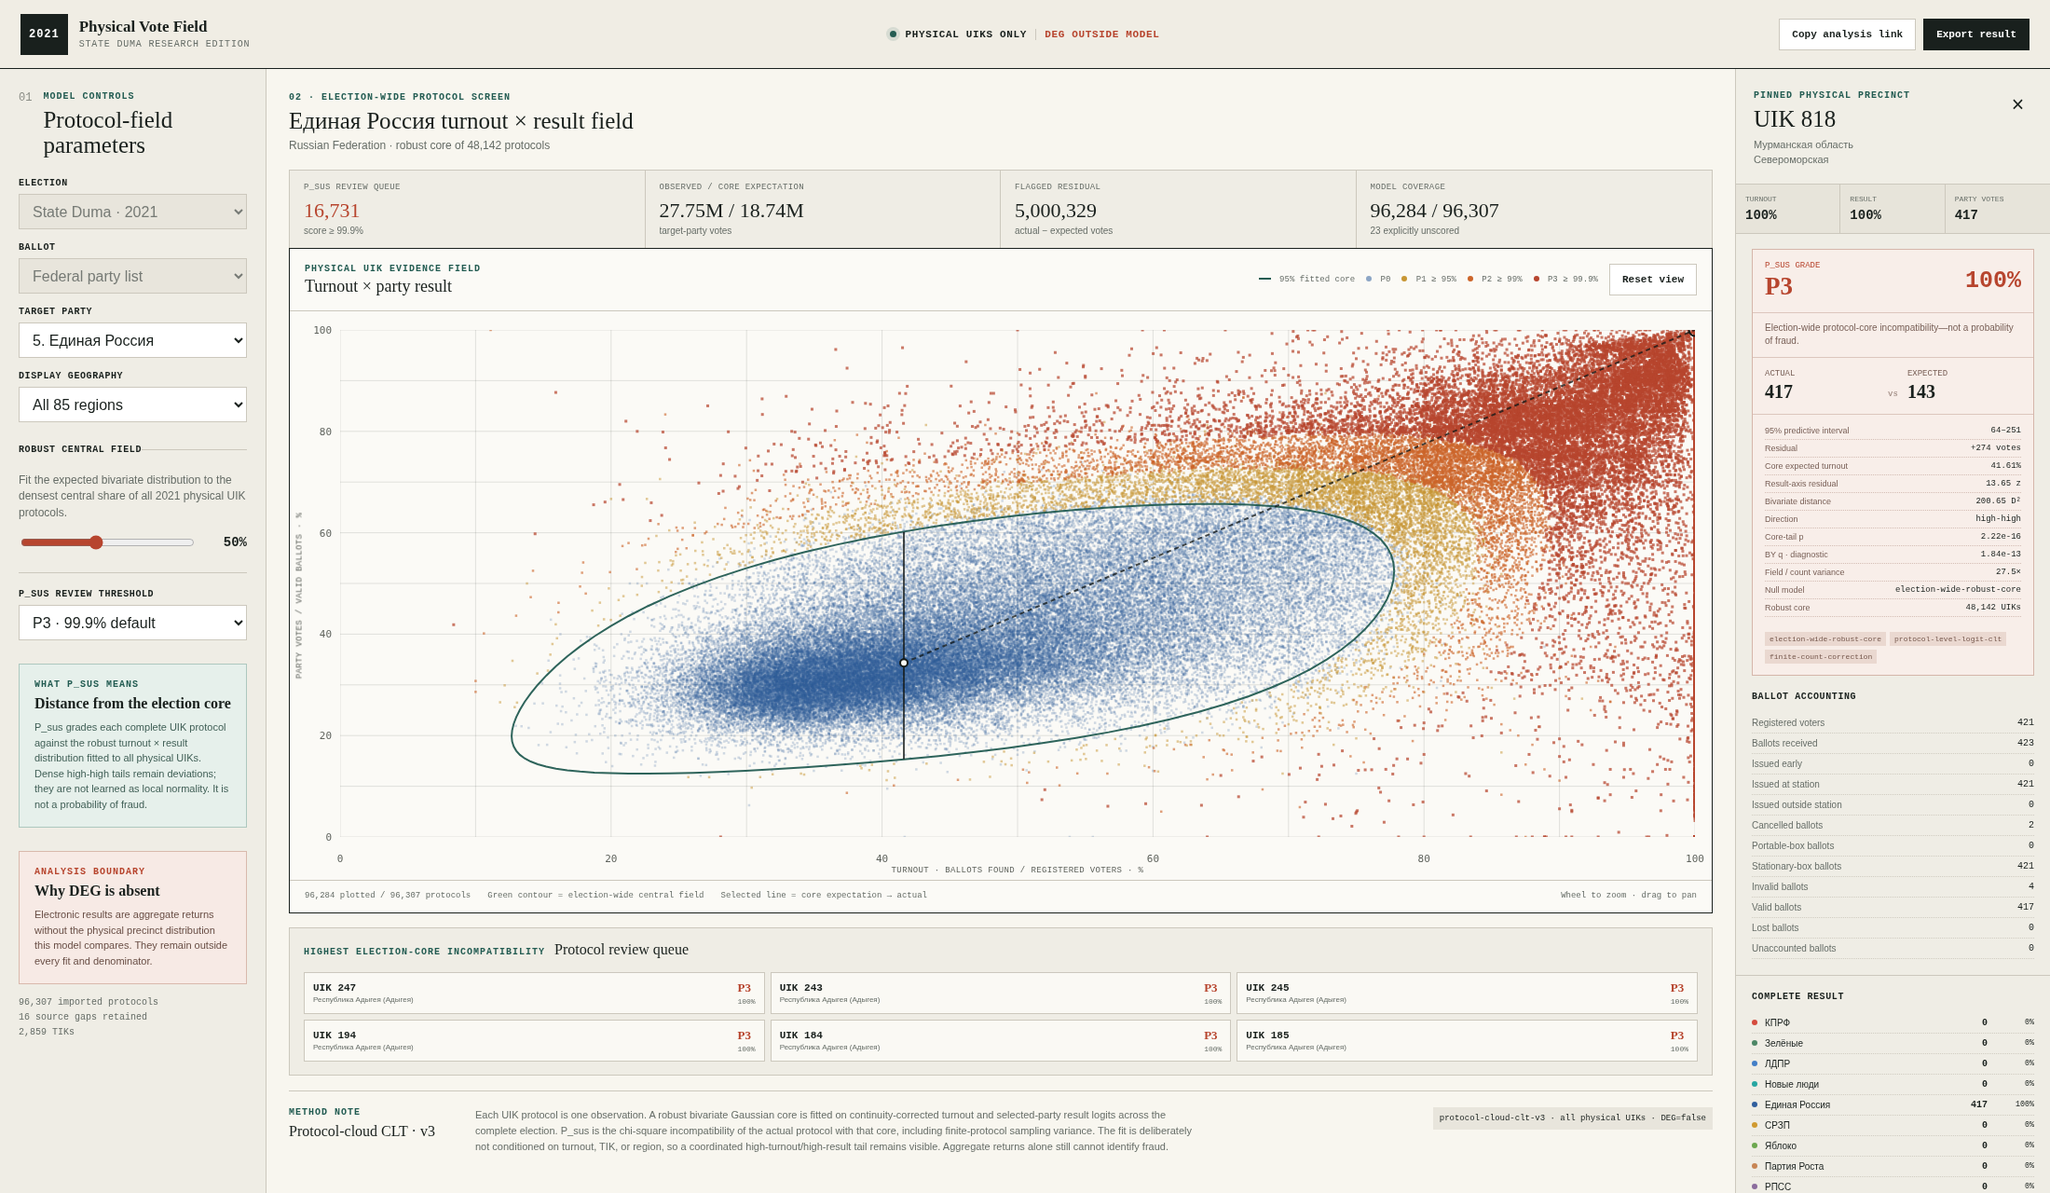
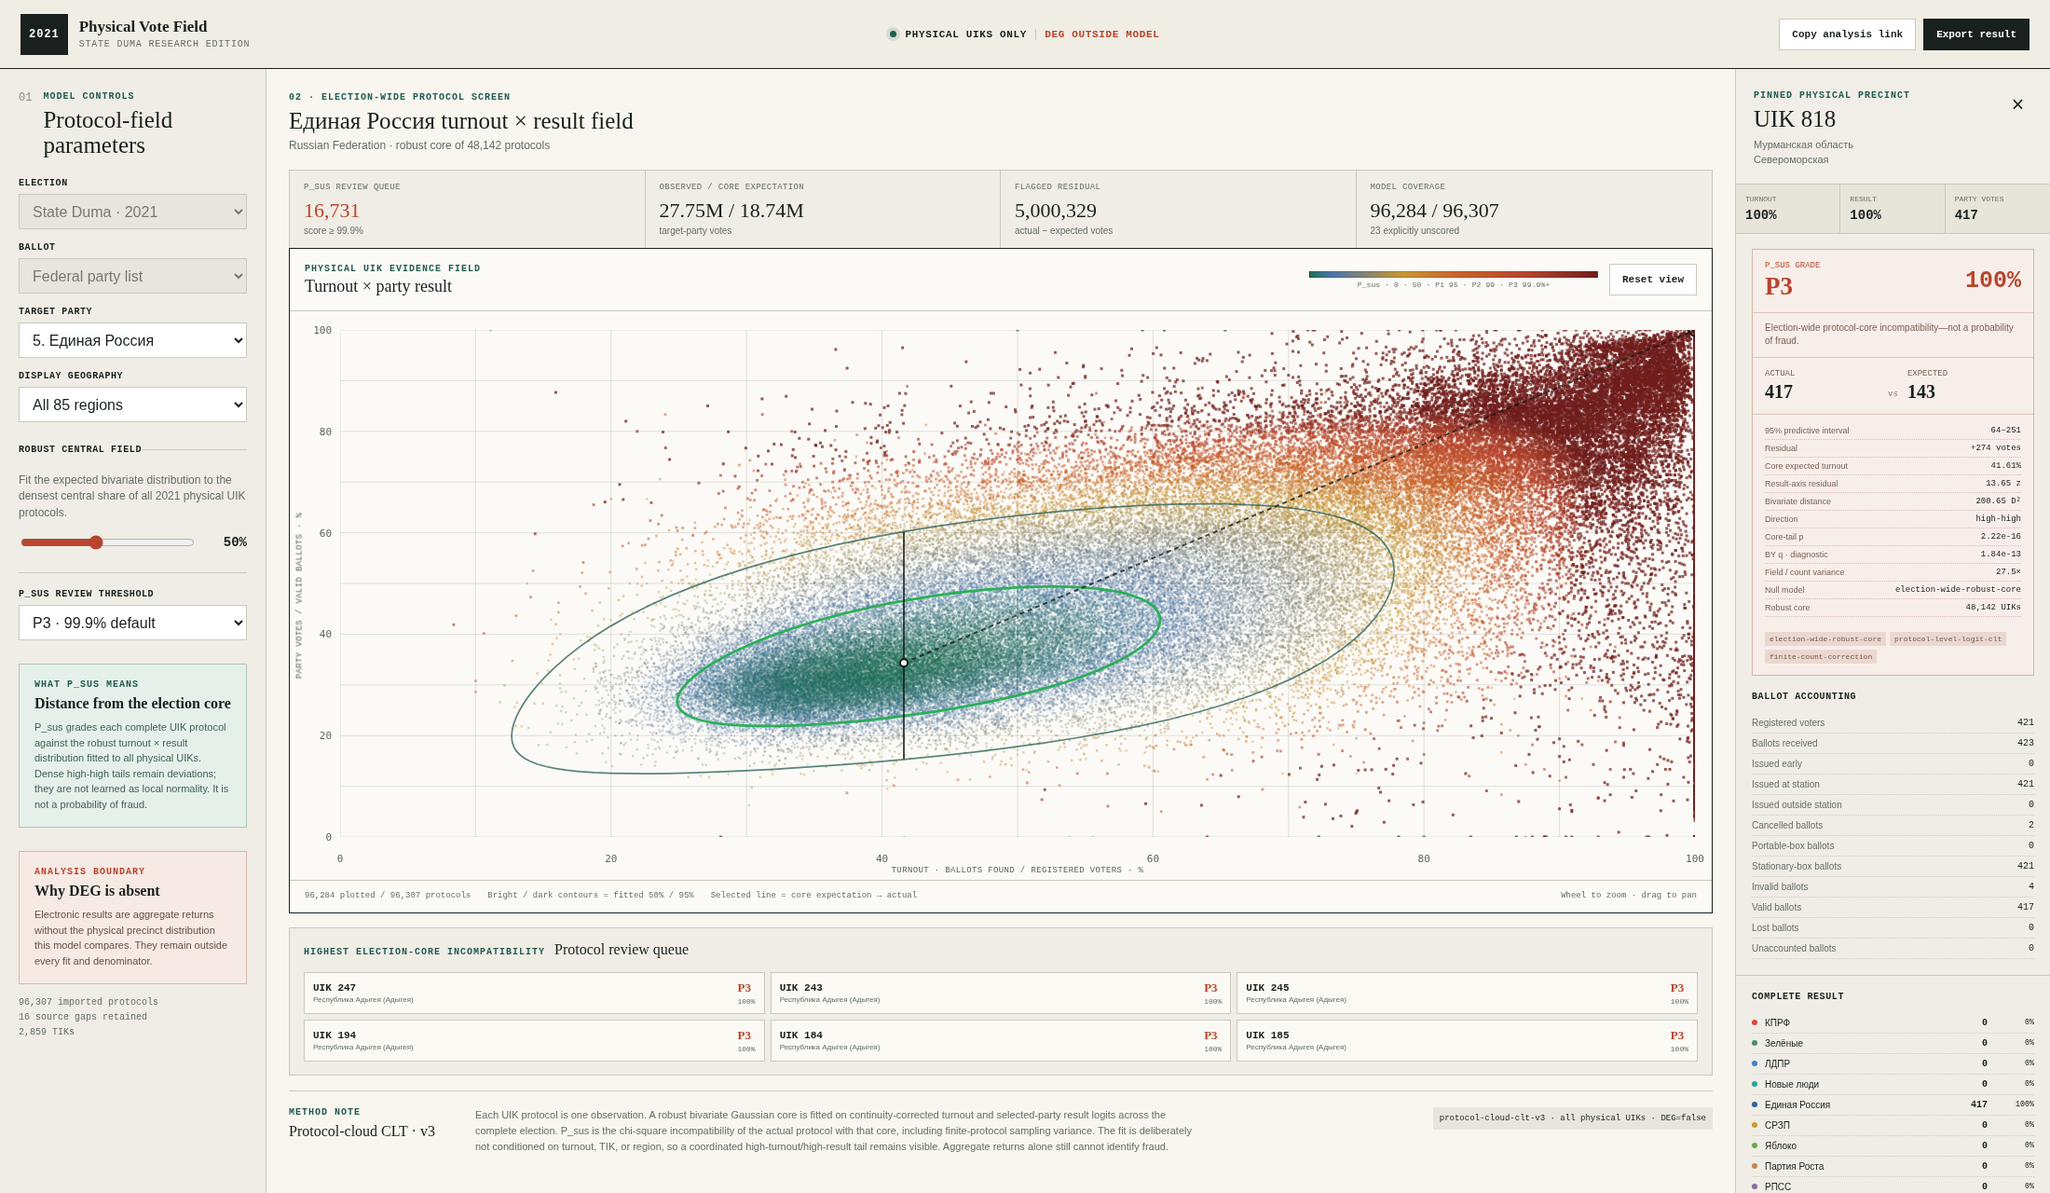
Improve protocol-cloud P_sus visualization

diff --git a/proper-app/frontend/src/components/Scatterplot.tsx b/proper-app/frontend/src/components/Scatterplot.tsx
@@ -5,9 +5,18 @@ interface View { x0: number; x1: number; y0: number; y1: number }
 interface Size { width: number; height: number }
 interface Drag { x: number; y: number; view: View; moved: boolean }
 type PlotPoint = Point & { turnout: number; result: number };
+interface ColorStop { position: number; color: [number, number, number] }
 
 const FULL: View = { x0: 0, x1: 100, y0: 0, y1: 100 };
 const MARGIN = { left: 54, right: 18, top: 20, bottom: 46 };
+const COLOR_STOPS: ColorStop[] = [
+  { position: 0, color: [35, 112, 91] },
+  { position: 0.075, color: [75, 118, 169] },
+  { position: 0.325, color: [199, 150, 51] },
+  { position: 0.5, color: [204, 101, 42] },
+  { position: 0.75, color: [183, 69, 46] },
+  { position: 1, color: [112, 31, 29] }
+];
 
 function bounded(view: View): View {
   const width = Math.min(100, Math.max(2, view.x1 - view.x0));
@@ -18,23 +27,42 @@ function bounded(view: View): View {
   return { x0, x1: x0 + width, y0, y1: y0 + height };
 }
 
-function rgba(hex: string, alpha: number): string {
-  const value = Number.parseInt(hex.replace("#", ""), 16);
-  return `rgba(${(value >> 16) & 255},${(value >> 8) & 255},${value & 255},${alpha})`;
-}
-
 function isPlottable(point: Point): point is PlotPoint {
   return point.turnout !== null && point.result !== null
     && Number.isFinite(point.turnout) && Number.isFinite(point.result);
 }
 
+function pSusOf(estimate: PointEstimate | undefined): number {
+  return estimate?.status === "scored" && estimate.pSus !== null ? estimate.pSus : -1;
+}
+
+function tailPosition(pSus: number): number {
+  if (pSus < 0) return -1;
+  // A log-tail axis gives useful visual room to 95%, 99%, and the P3 tail.
+  return Math.min(1, -Math.log10(Math.max(1e-4, 1 - Math.min(1, pSus))) / 4);
+}
+
+function gradientColor(pSus: number): string {
+  const position = tailPosition(pSus);
+  if (position < 0) return "rgba(95,99,93,.22)";
+  const upperIndex = COLOR_STOPS.findIndex((stop) => stop.position >= position);
+  const upper = COLOR_STOPS[Math.max(0, upperIndex)];
+  const lower = COLOR_STOPS[Math.max(0, upperIndex - 1)];
+  const fraction = upper.position === lower.position
+    ? 0 : (position - lower.position) / (upper.position - lower.position);
+  const channels = lower.color.map((channel, index) =>
+    Math.round(channel + fraction * (upper.color[index] - channel)));
+  const alpha = 0.22 + 0.5 * position;
+  return `rgba(${channels[0]},${channels[1]},${channels[2]},${alpha.toFixed(3)})`;
+}
+
 export function Scatterplot({
-  points, estimates, coreContour, color, selectedId, onSelect
+  points, estimates, coreContour50, coreContour95, selectedId, onSelect
 }: {
   points: Point[];
   estimates: Map<string, PointEstimate>;
-  coreContour: Array<{ turnout: number; result: number }>;
-  color: string;
+  coreContour50: Array<{ turnout: number; result: number }>;
+  coreContour95: Array<{ turnout: number; result: number }>;
   selectedId: string | null;
   onSelect(point: Point): void;
 }) {
@@ -46,6 +74,8 @@ export function Scatterplot({
   const [size, setSize] = useState<Size>({ width: 900, height: 560 });
   const [hover, setHover] = useState<{ point: PlotPoint; x: number; y: number } | null>(null);
   const plottedPoints = useMemo(() => points.filter(isPlottable), [points]);
+  const paintOrder = useMemo(() => [...plottedPoints].sort((left, right) =>
+    pSusOf(estimates.get(left.id)) - pSusOf(estimates.get(right.id))), [estimates, plottedPoints]);
 
   const applyView = useCallback((next: View) => {
     const value = bounded(next); viewRef.current = value; setView(value);
@@ -124,27 +154,26 @@ export function Scatterplot({
       if (tick >= current.x0 && tick <= current.x1) { context.beginPath(); context.moveTo(x(tick), MARGIN.top); context.lineTo(x(tick), MARGIN.top + d.height); context.stroke(); }
       if (tick >= current.y0 && tick <= current.y1) { context.beginPath(); context.moveTo(MARGIN.left, y(tick)); context.lineTo(MARGIN.left + d.width, y(tick)); context.stroke(); }
     }
-    const gradeColors: Record<PointEstimate["grade"], string> = {
-      U: "rgba(95,99,93,.22)", P0: rgba(color, 0.22), P1: "rgba(199,150,51,.50)",
-      P2: "rgba(204,101,42,.61)", P3: "rgba(183,69,46,.72)"
-    };
-    // Paint the ordinary cloud first so dense P2/P3 tails cannot be hidden by it.
-    for (const grade of ["U", "P0", "P1", "P2", "P3"] as const) {
-      for (const point of plottedPoints) {
-        if (point.turnout < current.x0 || point.turnout > current.x1 || point.result < current.y0 || point.result > current.y1) continue;
-        if ((estimates.get(point.id)?.grade ?? "U") !== grade) continue;
-        const pixel = toPixel(point, current); const width = grade === "P3" ? 3 : 2.5;
-        context.fillStyle = gradeColors[grade];
-        context.fillRect(pixel.x - width / 2, pixel.y - width / 2, width, width);
+    // Sort once by continuous severity so extreme points are painted on top.
+    for (const point of paintOrder) {
+      if (point.turnout < current.x0 || point.turnout > current.x1 || point.result < current.y0 || point.result > current.y1) continue;
+      const pSus = pSusOf(estimates.get(point.id)); const position = tailPosition(pSus);
+      const pixel = toPixel(point, current); const width = position < 0 ? 2.25 : 2.25 + 0.75 * position;
+      context.fillStyle = gradientColor(pSus);
+      context.fillRect(pixel.x - width / 2, pixel.y - width / 2, width, width);
+    }
+    for (const { points: corePoints, color: contourColor, width } of [
+      { points: coreContour95, color: "rgba(35,92,82,.74)", width: 1.75 },
+      { points: coreContour50, color: "rgba(38,174,82,.96)", width: 2.75 }
+    ]) {
+      context.strokeStyle = contourColor; context.lineWidth = width;
+      context.beginPath();
+      for (const [index, corePoint] of corePoints.entries()) {
+        if (index === 0) context.moveTo(x(corePoint.turnout), y(corePoint.result));
+        else context.lineTo(x(corePoint.turnout), y(corePoint.result));
       }
+      context.stroke();
     }
-    context.strokeStyle = "rgba(35,92,82,.95)"; context.lineWidth = 2;
-    context.beginPath();
-    for (const [index, corePoint] of coreContour.entries()) {
-      if (index === 0) context.moveTo(x(corePoint.turnout), y(corePoint.result));
-      else context.lineTo(x(corePoint.turnout), y(corePoint.result));
-    }
-    context.stroke();
     const selected = selectedId ? plottedPoints.find((point) => point.id === selectedId) : null;
     if (selected) {
       const pixel = toPixel(selected, current); const estimate = estimates.get(selected.id);
@@ -178,7 +207,7 @@ export function Scatterplot({
       const value = current.y0 + index / 5 * (current.y1 - current.y0);
       context.fillText(value.toFixed(current.y1 - current.y0 < 20 ? 1 : 0), MARGIN.left - 9, MARGIN.top + d.height - index / 5 * d.height + 4);
     }
-  }, [color, coreContour, dimensions, estimates, plottedPoints, selectedId, size, toPixel, view]);
+  }, [coreContour50, coreContour95, dimensions, estimates, paintOrder, plottedPoints, selectedId, size, toPixel, view]);
 
   useEffect(() => {
     const shell = shellRef.current; if (!shell) return;
@@ -223,7 +252,7 @@ export function Scatterplot({
   return <section className="plot-card">
     <div className="plot-head">
       <div><span className="eyebrow">Physical UIK evidence field</span><h2>Turnout × party result</h2></div>
-      <div className="plot-tools"><span><i className="legend-line core" /> 95% fitted core</span><span><i className="legend-dot ordinary" style={{ background: color }} /> P0</span><span><i className="legend-dot p1" /> P1 ≥ 95%</span><span><i className="legend-dot p2" /> P2 ≥ 99%</span><span><i className="legend-dot p3" /> P3 ≥ 99.9%</span><button onClick={() => applyView(FULL)}>Reset view</button></div>
+      <div className="plot-tools"><span className="gradient-key"><i /><small>P_sus · 0 · 50 · P1 95 · P2 99 · P3 99.9%+</small></span><button onClick={() => applyView(FULL)}>Reset view</button></div>
     </div>
     <div className="plot-shell" ref={shellRef} onPointerDown={onPointerDown} onPointerMove={onPointerMove} onPointerUp={onPointerUp} onPointerCancel={() => { dragRef.current = null; }} onPointerLeave={() => setHover(null)}>
       <canvas ref={canvasRef} aria-label={`${plottedPoints.length.toLocaleString()} physical precinct points. Turnout on the horizontal axis and party result on the vertical axis.`} role="img" />
@@ -236,6 +265,6 @@ export function Scatterplot({
         <small>Click to inspect protocol</small>
       </div>}
     </div>
-    <footer className="plot-foot"><span>{plottedPoints.length.toLocaleString()} plotted / {points.length.toLocaleString()} protocols</span><span>Green contour = election-wide central field</span><span>Selected line = core expectation → actual</span><span>Wheel to zoom · drag to pan</span></footer>
+    <footer className="plot-foot"><span>{plottedPoints.length.toLocaleString()} plotted / {points.length.toLocaleString()} protocols</span><span>Bright / dark contours = fitted 50% / 95%</span><span>Selected line = core expectation → actual</span><span>Wheel to zoom · drag to pan</span></footer>
   </section>;
 }

diff --git a/proper-app/frontend/src/App.tsx b/proper-app/frontend/src/App.tsx
@@ -178,7 +178,7 @@ export default function App() {
           <article><span>Flagged residual</span><strong>{integer.format(summary.flaggedResidualVotes)}</strong><small>actual − expected votes</small></article>
           <article><span>Model coverage</span><strong>{integer.format(summary.scoredProtocols)} / {integer.format(summary.protocols)}</strong><small>{summary.unscoredProtocols} explicitly unscored</small></article>
         </div>}
-        {visiblePoints.length && party && analysis.value ? <Scatterplot points={visiblePoints} estimates={analysis.value.estimates} coreContour={analysis.value.core.contour95} color={party.color} selectedId={selectedId} onSelect={(point) => setSelectedId(point.id)} /> : !loading && <div className="empty-chart">No physical UIK points match this selection.</div>}
+        {visiblePoints.length && party && analysis.value ? <Scatterplot points={visiblePoints} estimates={analysis.value.estimates} coreContour50={analysis.value.core.contour50} coreContour95={analysis.value.core.contour95} selectedId={selectedId} onSelect={(point) => setSelectedId(point.id)} /> : !loading && <div className="empty-chart">No physical UIK points match this selection.</div>}
         {reviewQueue.length > 0 && <section className="review-queue"><div><span className="eyebrow">Highest election-core incompatibility</span><h2>Protocol review queue</h2></div><div className="review-items">{reviewQueue.map(({ point, estimate }) => <button key={point.id} onClick={() => setSelectedId(point.id)} className={selectedId === point.id ? "selected" : ""}><span><b>UIK {point.uikNumber}</b><small>{point.regionName}</small></span><strong>{estimate?.grade}</strong><em>{percent.format(estimate?.pSus ?? 0)}</em></button>)}</div></section>}
         <section className="method-strip"><div><span className="eyebrow">Method note</span><h2>Protocol-cloud CLT · v3</h2></div><p>Each UIK protocol is one observation. A robust bivariate Gaussian core is fitted on continuity-corrected turnout and selected-party result logits across the complete election. P_sus is the chi-square incompatibility of the actual protocol with that core, including finite-protocol sampling variance. The fit is deliberately not conditioned on turnout, TIK, or region, so a coordinated high-turnout/high-result tail remains visible. Aggregate returns alone still cannot identify fraud.</p><code>protocol-cloud-clt-v3 · all physical UIKs · DEG=false</code></section>
       </section>

diff --git a/proper-app/frontend/src/analysis.ts b/proper-app/frontend/src/analysis.ts
@@ -24,6 +24,7 @@ interface CoreFit {
   members: Observation[];
 }
 
+const CHI_SQUARE_2_50 = 1.3862943611198906;
 const CHI_SQUARE_2_95 = 5.991464547107979;
 const Z_95 = 1.959963984540054;
 const NORMAL_MAD = 0.6744897501960817;
@@ -210,12 +211,12 @@ function direction(dx: number, dy: number, distance: number): PointEstimate["dir
   return "low-low";
 }
 
-function contour(fit: CoreFit): Array<{ turnout: number; result: number }> {
+function contour(fit: CoreFit, squaredRadius: number): Array<{ turnout: number; result: number }> {
   const a = Math.max(1e-12, fit.covariance[0][0]);
   const l11 = Math.sqrt(a);
   const l21 = fit.covariance[1][0] / l11;
   const l22 = Math.sqrt(Math.max(1e-12, fit.covariance[1][1] - l21 ** 2));
-  const radius = Math.sqrt(CHI_SQUARE_2_95);
+  const radius = Math.sqrt(squaredRadius);
   return Array.from({ length: 97 }, (_, index) => {
     const angle = 2 * Math.PI * index / 96;
     const cosine = Math.cos(angle); const sine = Math.sin(angle);
@@ -321,7 +322,8 @@ export function analyze(points: Point[], parameters: AnalysisParameters = DEFAUL
       expectedTurnout: 100 * expectedTurnoutShare,
       expectedResult: 100 * expectedResultShare,
       covariance: fit.covariance,
-      contour95: contour(fit)
+      contour50: contour(fit, CHI_SQUARE_2_50),
+      contour95: contour(fit, CHI_SQUARE_2_95)
     },
     estimates
   };

diff --git a/proper-app/frontend/src/styles.css b/proper-app/frontend/src/styles.css
@@ -95,12 +95,9 @@ button:disabled { cursor: default; opacity: .45; }
 .plot-head .eyebrow { margin-bottom: 3px; }
 .plot-tools { display: flex; align-items: center; gap: 12px; color: var(--muted); font: 9px var(--mono); }
 .plot-tools span { white-space: nowrap; }
-.legend-dot { display: inline-block; width: 6px; height: 6px; margin-right: 4px; border-radius: 50%; }
-.legend-line { display: inline-block; width: 13px; height: 0; margin: 0 4px 2px 0; border-top: 2px solid var(--green); }
-.legend-dot.ordinary { opacity: .55; }
-.legend-dot.p1 { background: #c79633; }
-.legend-dot.p2 { background: #cc652a; }
-.legend-dot.p3 { background: var(--red); }
+.gradient-key { display: grid; gap: 3px; width: 310px; }
+.gradient-key > i { display: block; height: 7px; border: 1px solid rgba(21,26,24,.18); background: linear-gradient(90deg, #23705b 0%, #4b76a9 7.5%, #c79633 32.5%, #cc652a 50%, #b7452e 75%, #701f1d 100%); }
+.gradient-key small { color: var(--muted); font: 8px var(--mono); letter-spacing: .015em; text-align: center; }
 .plot-shell { position: relative; height: min(58vh, 610px); min-height: 440px; overflow: hidden; cursor: crosshair; touch-action: none; user-select: none; }
 .plot-shell:active { cursor: grabbing; }
 .plot-shell canvas { display: block; width: 100%; height: 100%; }

diff --git a/proper-app/frontend/src/analysis.test.ts b/proper-app/frontend/src/analysis.test.ts
@@ -70,7 +70,13 @@ describe("protocol-cloud-clt-v3", () => {
     expect(result.core.expectedTurnout).toBeLessThan(50);
     expect(result.core.expectedResult).toBeGreaterThan(15);
     expect(result.core.expectedResult).toBeLessThan(25);
+    expect(result.core.contour50).toHaveLength(97);
     expect(result.core.contour95).toHaveLength(97);
+    const center = { turnout: result.core.expectedTurnout, result: result.core.expectedResult };
+    const radialDistance = (item: { turnout: number; result: number }) =>
+      Math.hypot(item.turnout - center.turnout, item.result - center.result);
+    expect(Math.max(...result.core.contour50.map(radialDistance)))
+      .toBeLessThan(Math.max(...result.core.contour95.map(radialDistance)));
     expect(result.core.contour95.every((item) => Number.isFinite(item.turnout) && Number.isFinite(item.result))).toBe(true);
   });
 

diff --git a/proper-app/frontend/src/types.ts b/proper-app/frontend/src/types.ts
@@ -88,6 +88,7 @@ export interface AnalysisResult {
     expectedTurnout: number;
     expectedResult: number;
     covariance: [[number, number], [number, number]];
+    contour50: Array<{ turnout: number; result: number }>;
     contour95: Array<{ turnout: number; result: number }>;
   };
   estimates: Map<string, PointEstimate>;

diff --git a/proper-app/research/src/election_research/protocol_cloud_v3.py b/proper-app/research/src/election_research/protocol_cloud_v3.py
@@ -9,6 +9,7 @@ from statistics import median
 METHOD_SLUG = "protocol-cloud-clt-v3"
 METHOD_VERSION = 3
 CHI_SQUARE_2_95 = 5.991464547107979
+CHI_SQUARE_2_50 = 1.3862943611198906
 Z_95 = 1.959963984540054
 NORMAL_MAD = 0.6744897501960817
 
@@ -86,6 +87,7 @@ class Core:
     expected_turnout: float
     expected_result: float
     covariance: tuple[tuple[float, float], tuple[float, float]]
+    contour50: tuple[dict[str, float], ...]
     contour95: tuple[dict[str, float], ...]
 
 
@@ -309,12 +311,12 @@ def _direction(dx: float, dy: float, distance: float) -> str:
     return "low-low"
 
 
-def _contour(fit: _Fit) -> tuple[dict[str, float], ...]:
+def _contour(fit: _Fit, squared_radius: float) -> tuple[dict[str, float], ...]:
     a = max(1e-12, fit.covariance[0][0])
     l11 = sqrt(a)
     l21 = fit.covariance[1][0] / l11
     l22 = sqrt(max(1e-12, fit.covariance[1][1] - l21**2))
-    radius = sqrt(CHI_SQUARE_2_95)
+    radius = sqrt(squared_radius)
     return tuple(
         {
             "turnout": 100 * _inverse_logit(fit.center[0] + radius * l11 * cos(2 * pi * index / 96)),
@@ -445,7 +447,8 @@ def analyze(points: list[Point], parameters: Parameters | None = None) -> Analys
         expected_turnout=100 * expected_turnout,
         expected_result=100 * expected_result,
         covariance=fit.covariance,
-        contour95=_contour(fit),
+        contour50=_contour(fit, CHI_SQUARE_2_50),
+        contour95=_contour(fit, CHI_SQUARE_2_95),
     )
     return Analysis(
         method=METHOD_SLUG,

diff --git a/proper-app/research/tests/test_protocol_cloud_v3.py b/proper-app/research/tests/test_protocol_cloud_v3.py
@@ -106,6 +106,7 @@ class ProtocolCloudV3Tests(unittest.TestCase):
         self.assertLess(result.core.expected_turnout, 50)
         self.assertGreater(result.core.expected_result, 15)
         self.assertLess(result.core.expected_result, 25)
+        self.assertEqual(len(result.core.contour50), 97)
         self.assertEqual(len(result.core.contour95), 97)
         self.assertGreater(covariance[0][0], 0)
         self.assertGreater(covariance[1][1], 0)

diff --git a/proper-app/research/METHOD.md b/proper-app/research/METHOD.md
@@ -145,10 +145,12 @@ The implementation floors `p_i` at machine epsilon. `P_sus` is therefore an anal
 model-incompatibility score, not an empirical rank and never `1 - q`. Higher values mean
 that the observed turnout/result pair lies farther into the working model's tail.
 
-The 95% central contour uses `D2 = 5.99146`. Outside it, the signs of the turnout and
-result logit residuals label a protocol `high-high`, `high-low`, `low-high`, or
-`low-low`; points inside it are `central`. `P_sus` itself is two-sided and can be high in
-any quadrant.
+The plot renders a bright 50% central contour using `D2 = 1.38629` and a quieter 95%
+contour using `D2 = 5.99146`. The first makes the dense fitted center visible; the
+second shows the broad working-model reference band. Outside the 95% contour, the signs
+of the turnout and result logit residuals label a protocol `high-high`, `high-low`,
+`low-high`, or `low-low`; points inside it are `central`. `P_sus` itself is two-sided
+and can be high in any quadrant.
 
 The versioned display grades are:
 
